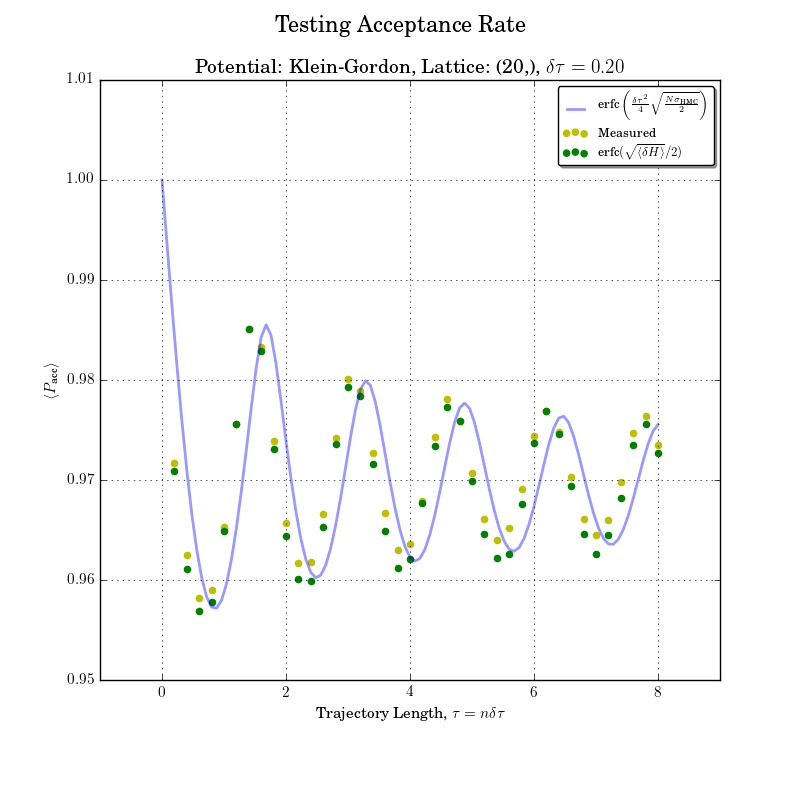
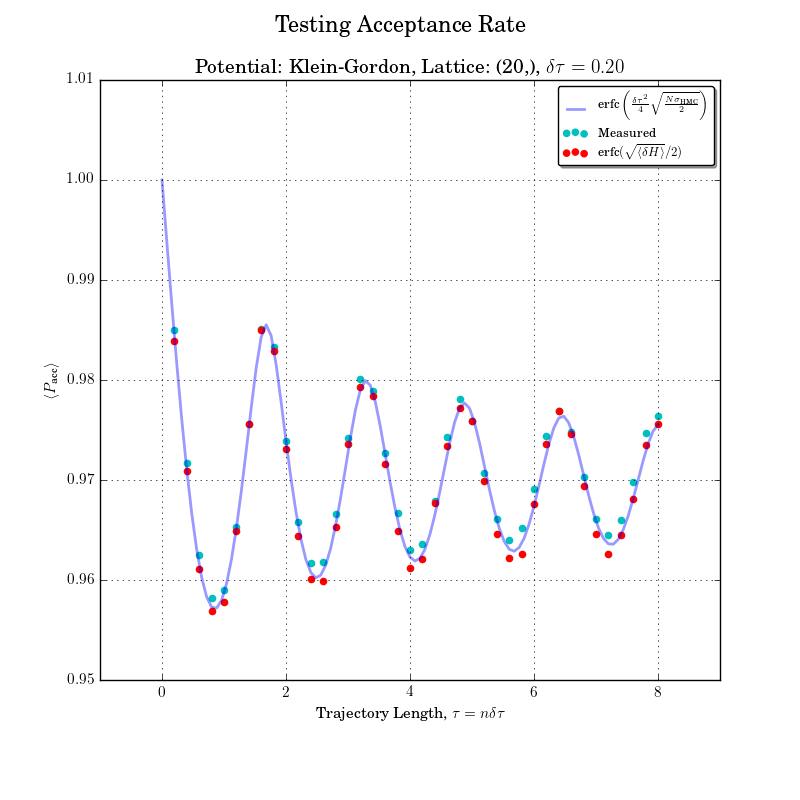
new acceptance test / acs

diff --git a/results/acceptance_hmc1dfree.py b/results/acceptance_hmc1dfree.py
@@ -3,8 +3,10 @@
 import numpy as np
 import matplotlib.pyplot as plt
 
+from hmc.potentials import Klein_Gordon as KG
 from common import acceptance
 
+pot = KG(m=0.)
 file_name = __file__
 
 n, dim = 20, 1
@@ -12,5 +14,5 @@ x0 = np.random.random((n,)*dim)
 
 if __name__ == '__main__':
     n_rng = np.arange(1, 41, 1)
-    acceptance.main(x0, file_name, n_rng, 
+    acceptance.main(x0, pot, file_name, n_rng, 
       n_samples = 10000, step_size = .2, save = True)

diff --git a/results/common/acceptance.py b/results/common/acceptance.py
@@ -9,7 +9,6 @@ from data import store
 from utils import saveOrDisplay, prll_map
 from models import Basic_HMC as Model
 from plotter import Pretty_Plotter, PLOT_LOC
-from hmc.potentials import Klein_Gordon as KG
 from hmc.lattice import Periodic_Lattice, laplacian
 
 __doc__ == """
